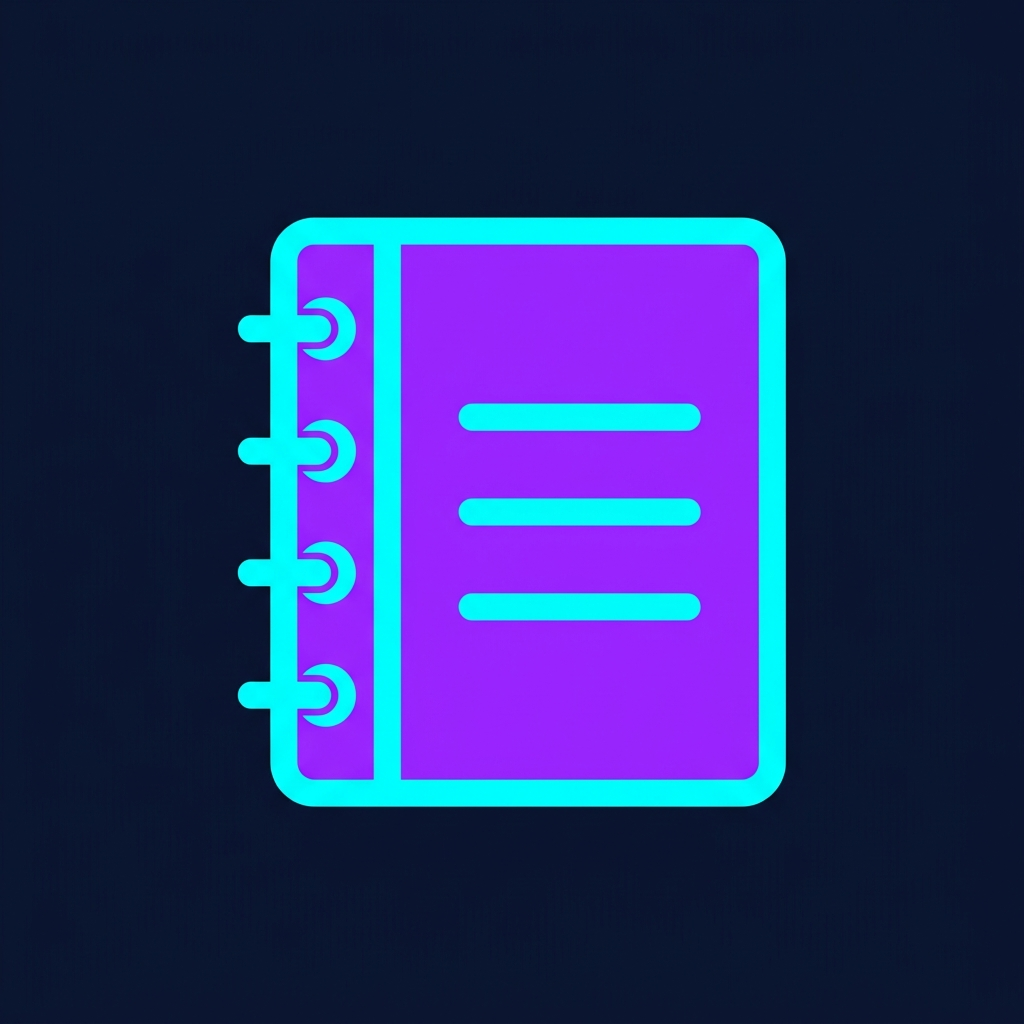
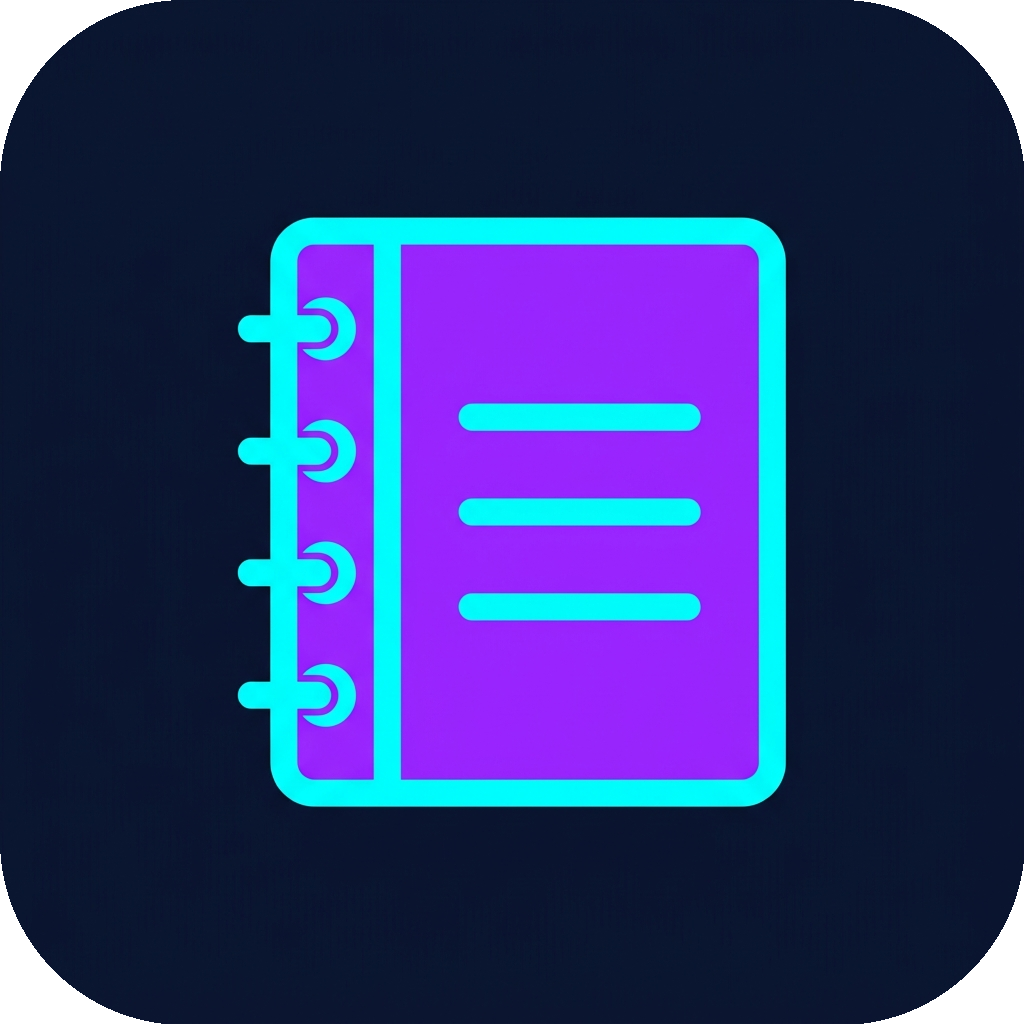
style(branding): apply uniform rounded white corners v1.0.13

diff --git a/CHANGELOG.md b/CHANGELOG.md
@@ -5,6 +5,12 @@ All notable changes to this project will be documented in this file.
 The format is based on [Keep a Changelog](https://keepachangelog.com/en/1.1.0/),
 and this project adheres to [Semantic Versioning](https://semver.org/spec/v2.0.0.html).
 
+## [1.0.13] - 2026-07-19
+
+### Changed
+- **Uniform Rounded Icon**: Applied a rounded corner mask with white-filled borders to make all application icons perfectly uniform.
+
+
 ## [1.0.12] - 2026-07-19
 
 ### Changed